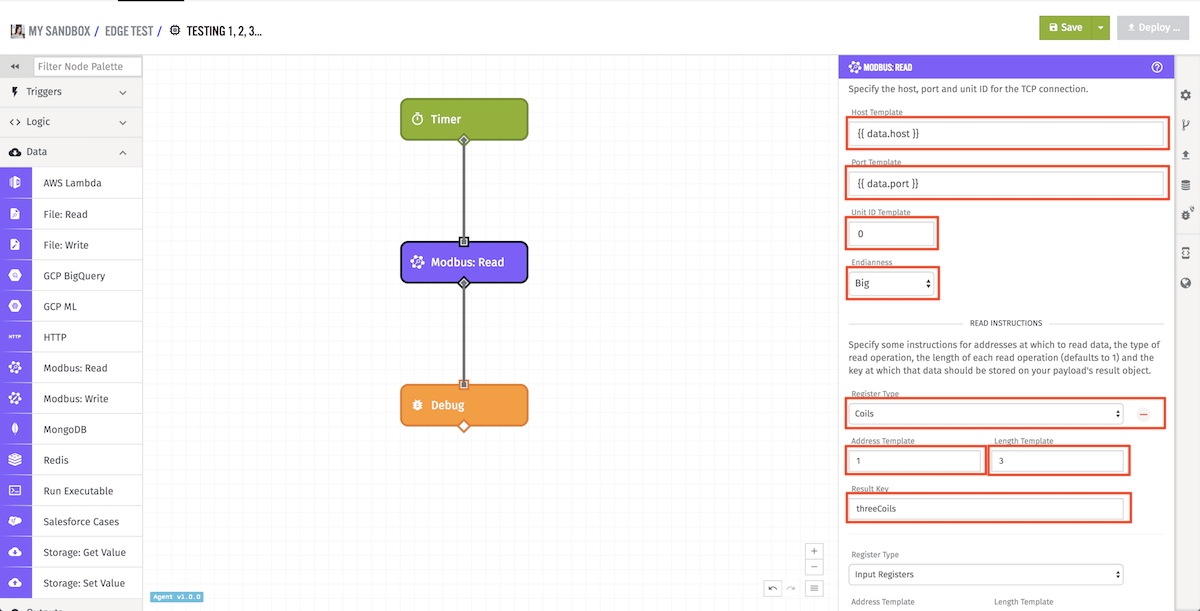
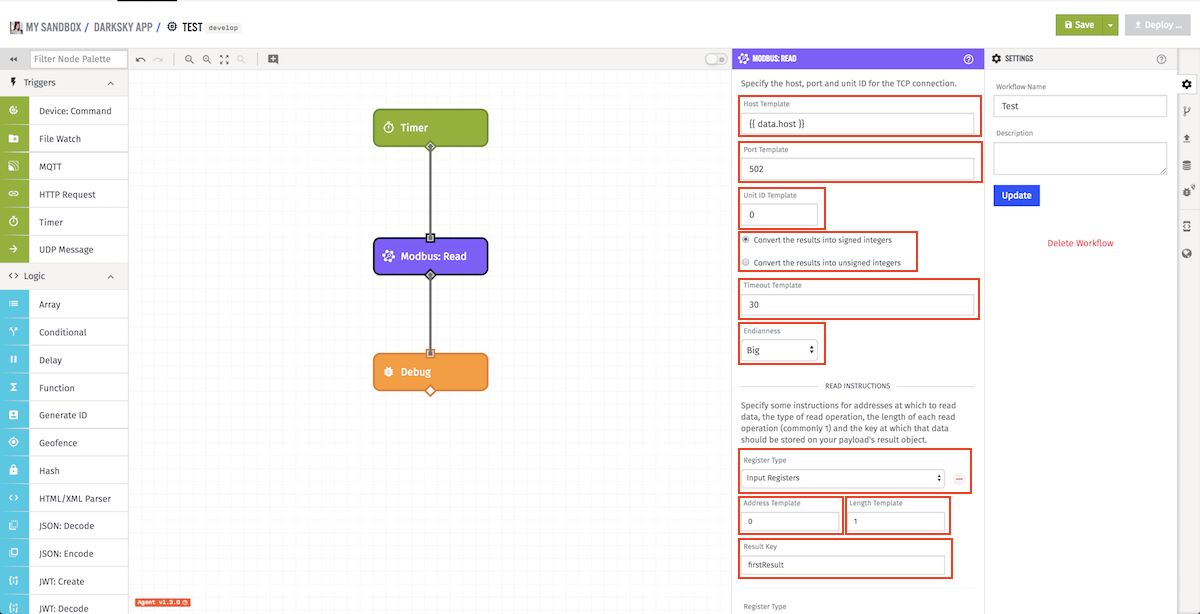
updated the modbus read and write configuration screens shots and built point examples

diff --git a/docs/workflows/data/modbus-read.md b/docs/workflows/data/modbus-read.md
@@ -20,6 +20,8 @@ Address Configuration contains four fields:
 * **Host:** (Required) A [string template](/workflows/accessing-payload-data/#string-templates) for the IP address at which the register(s) resides.
 * **Port:** (Required) A string template or integer for the HTTP port.
 * **Unit ID:** (Required) A string template or integer for the Unit ID at the specified host and port. Defaults to `0`.
+* **Convert to signed or unsigned integers:** The conversion of integer results to either signed or unsigned integers. Defaults to `convert to signed integers`.
+* **Timeout Template:**  A string template or integer for the numbers of seconds to wait before a timeout will occur while waiting for read results. Defaults to 30 seconds.
 * **Endianness:** The [endianness](https://en.wikipedia.org/wiki/Endianness), or sequential order of bytes. Defaults to "Big".
 
 ### Read Instructions

diff --git a/docs/workflows/data/modbus-write.md b/docs/workflows/data/modbus-write.md
@@ -20,6 +20,7 @@ Address Configuration contains three fields:
 * **Host:** (Required) A [string template](/workflows/accessing-payload-data/#string-templates) for the IP address at which the register(s) resides.
 * **Port:** (Required) A string template or integer for the HTTP port.
 * **Unit ID:** (Required) A string template or integer for the Unit ID at the specified host and port. Defaults to `0`.
+* **Timeout Template:**  A string template or integer for the numbers of seconds to wait before a timeout will occur while waiting for read results. Defaults to 30 seconds.
 
 ### Write Instructions
 
